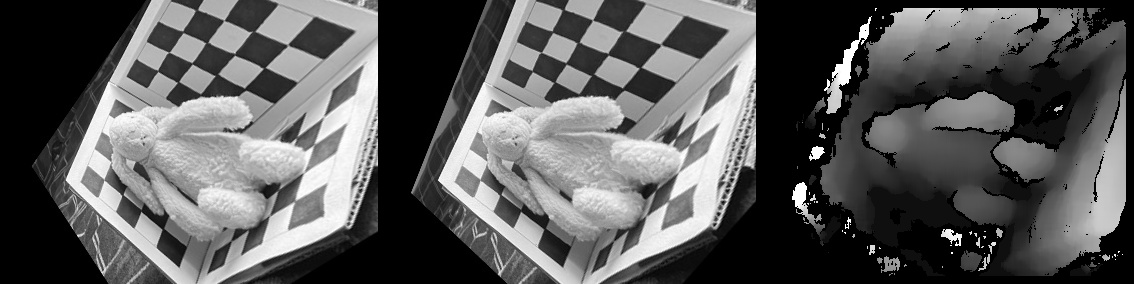
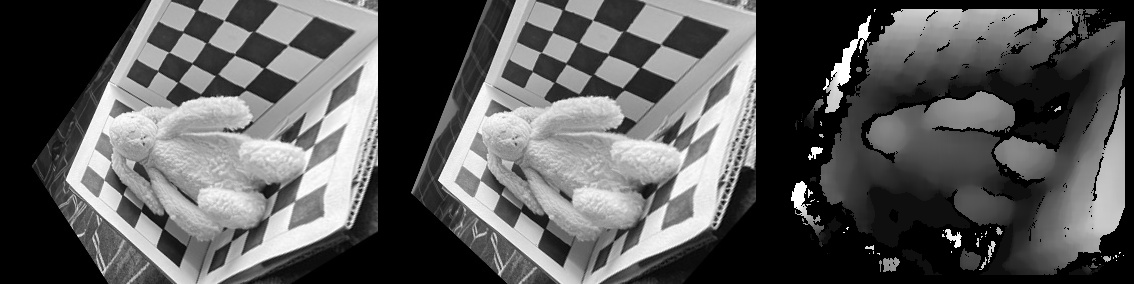
update

diff --git a/task_5/stereo.py b/task_5/stereo.py
@@ -4,8 +4,8 @@ import matplotlib.pyplot as plt
 
 # Load the left and right images 
 # in gray scale 
-img1_name = '../images/FD_02.jpg'
-img2_name = '../images/FD_05.jpg'
+img1_name = '../images/HG_06.jpg'
+img2_name = '../images/HG_07.jpg'
 
 img1 = cv2.imread(img1_name, 0) 
 img2 = cv2.imread(img2_name, 0)
@@ -51,8 +51,8 @@ _, H1, H2 = cv2.stereoRectifyUncalibrated(
 # Adapted from: https://stackoverflow.com/a/62607343
 img1_rectified = cv2.warpPerspective(img1, H1, (w1, h1))
 img2_rectified = cv2.warpPerspective(img2, H2, (w2, h2))
-cv2.imwrite("rectified_02.jpg", img1_rectified)
-cv2.imwrite("rectified_05.jpg", img2_rectified)
+cv2.imwrite("rectified-1.jpg", img1_rectified)
+cv2.imwrite("rectified-2.jpg", img2_rectified)
 
 # Draw the rectified images
 fig, axes = plt.subplots(1, 2, figsize=(15, 10))

diff --git a/task_5/depth_map.py b/task_5/depth_map.py
@@ -7,7 +7,7 @@ imgL = cv2.imread('rectified_8.jpg',0)
 imgR = cv2.imread('rectified_7.jpg',0)
 
 # Initialize the stereo block matching object 
-stereo = cv2.StereoBM_create(numDisparities=16, blockSize=17)
+stereo = cv2.StereoBM_create(numDisparities=16, blockSize=19)
 
 # Compute the disparity image
 disparity = stereo.compute(imgL, imgR)
